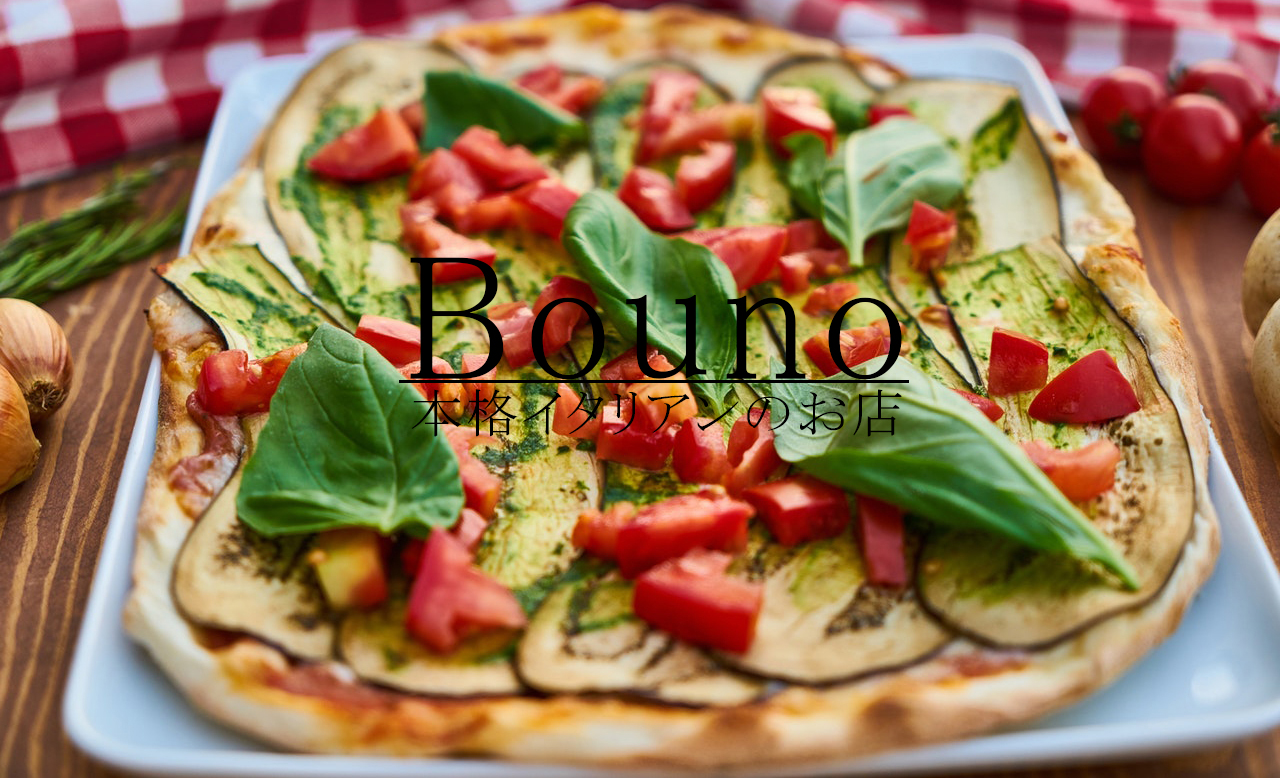
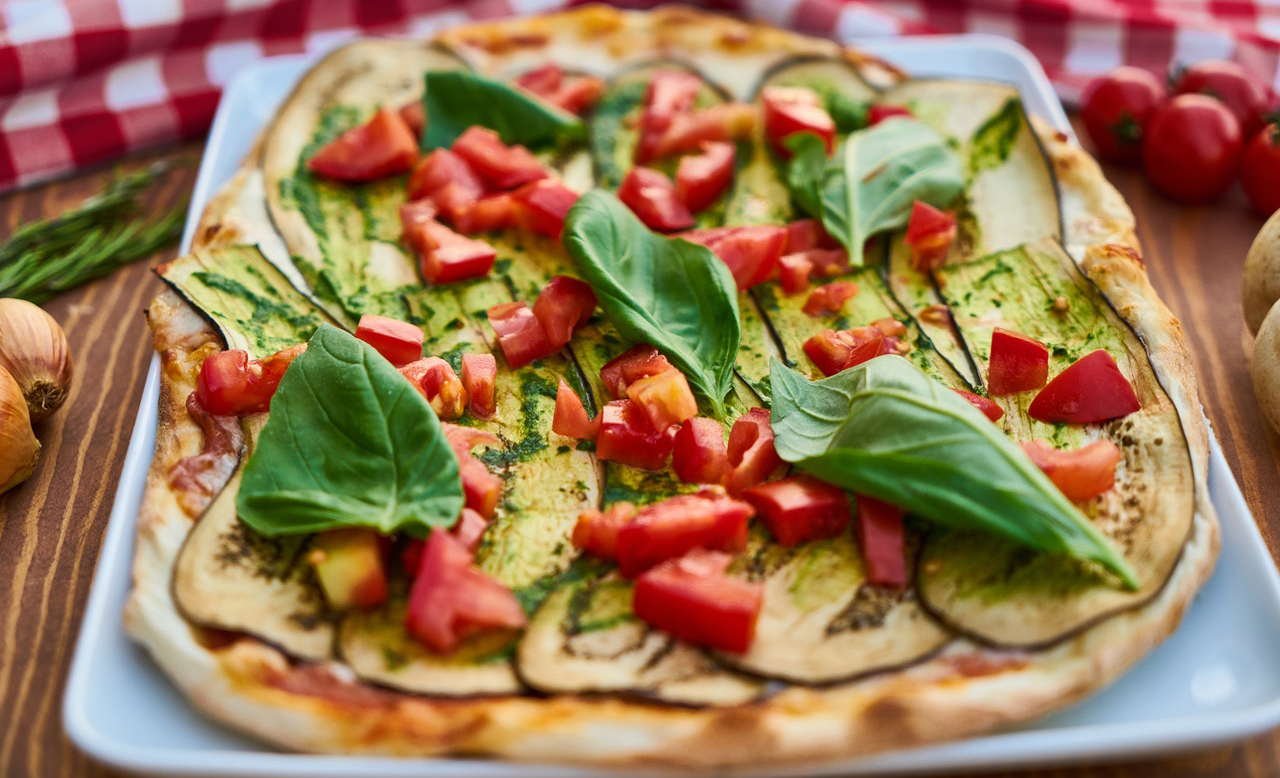
FBを受けて修正中。 imgにalt属性を付与。ヘッダーの画像を差し替えて店名をh1で追加。各見出しのタグを見直し。

Changed region(s): [[0.3125, 0.3085, 0.7188, 0.5553], [0.6562, 0.3702, 0.6875, 0.401]]

diff --git a/index.html b/index.html
@@ -17,18 +17,22 @@
             </ul>
         </nav>
         <div class="keyvisual">
-            <img src="img/keyvisiual.jpg" alt="keyvisual">
+            <img src="img/keyvisiual.jpg" alt=""><!--装飾用の画像はalt要らない？-->
+            <div class="header-restaurantname">
+                <h1>Bouno</h1>
+                <p>本格イタリアンのお店</p>
+            </div>
         </div>
     </header>
 
     <main>
         <article id="concept" class="concept blank">
-            <div class="heading"><h1>CONCEPT</h1></div>
-            <div class="jaheading"><h1>当店のコンセプト</h1></div>
+            <div class="heading"><h2>CONCEPT</h2></div>
+            <div class="jaheading"><h2>当店のコンセプト</h2></div>
             <article class="concept-flex">
-                <img src="img/photo-of-making-a-pizza-2180874-trimed.jpg">
+                <img src="img/photo-of-making-a-pizza-2180874-trimed.jpg" alt="当店のコンセプト">
                 <div class="concept-text">
-                    <h2>友達みんなイタリア人</h2>
+                    <h3>友達みんなイタリア人</h3>
                     <p>ぴざぱすたぴざぱすたぴざぱすたぴざぱすたぴざぱすたぴざぱすたぴざ
                         ぴざぱすたぴざぱすたぴざぱすたぴざぱすたぱすたぴざぱすたぴざぱすた
                         ぴざぱ</p>
@@ -41,42 +45,42 @@
             </article>
         </article>
         <article id="menu" class="food-menu blank">
-            <div class="heading"><h1>MENU</h1></div>
-            <div class="jaheading"><h1>メニュー</h1></div>
+            <div class="heading"><h2>MENU</h2></div>
+            <div class="jaheading"><h2>メニュー</h2></div>
             <section class="pizza-menu menu-flex">
-                <img src="img/pizza-only.jpg" alt="pizza-img">
+                <img src="img/pizza-only.jpg" alt="ピザのメニュー">
                 <section class="menu-text">
-                    <h2><i>PIZZA</i></h2>
+                    <h3>PIZZA</h3>
                     <p>本場イタリアの職人から受け継いだ生地作り。本場イタリアの職人から受け継いだ生地作り。本場イタリアの職人から受け継いだ生地作り。本場イタリアの職人から受け継いだ生地作り。本場イタリアの職人から受け継いだ生地作り。本場イタリアの職人から受け継いだ生地作り。</p>
                 </section>
             </section>
             <section class="pasta-menu menu-flex flex-reverse">
-                <img src="img/pasta-only.jpg" alt="pasta-img">
+                <img src="img/pasta-only.jpg" alt="パスタのメニュー">
                 <section class="menu-text">
-                    <h2><i>PASTA</i></h2>
+                    <h3>PASTA</h3>
                     <p>１年かけて完成させた究極の麺。１年かけて完成させた究極の麺。１年かけて完成させた究極の麺。１年かけて完成させた究極の麺。１年かけて完成させた究極の麺。１年かけて完成させた究極の麺。１年かけて完成させた究極の麺。１年かけて完成させた究極の麺。</p>
                 </section>
             </section>
             <section class="wine-menu menu-flex">
-                <img src="img/wine-only.jpg" alt="wine-img">
+                <img src="img/wine-only.jpg" alt="ワインのメニュー">
                 <section class="menu-text">
-                    <h2><i>WINE</i></h2>
+                    <h3>WINE</h3>
                     <p>徹底した温度管理。徹底した温度管理。徹底した温度管理。徹底した温度管理。徹底した温度管理。徹底した温度管理。徹底した温度管理。徹底した温度管理。徹底した温度管理。徹底した温度管理。徹底した温度管理。徹底した温度管理。徹底した温度管理。徹底した温度管理。</p>
                 </section>
             </section>
         </article>
         <article id="feature" class="feature blank">
-            <div class="heading"><h1>FEATURE</h1></div>
-            <div class="jaheading"><h1>食材へのこだわり</h1></div>
+            <div class="heading"><h2>FEATURE</h2></div>
+            <div class="jaheading"><h2>食材へのこだわり</h2></div>
             <article class="feature-flex">
-                <img src="img/feature-salt.jpg">
-                <img src="img/feature-oil.jpg">
-                <img src="img/feature-flour.jpg">
+                <img src="img/feature-salt.jpg" alt="塩のこだわり">
+                <img src="img/feature-oil.jpg" alt="オリーブオイルのこだわり">
+                <img src="img/feature-flour.jpg" alt="小麦粉のこだわり">
             </article>
         </article>
         <article id="access" class="access blank">
-            <div class="heading"><h1>ACCESS</h1></div>
-            <div class="jaheading"><h1>アクセス</h1></div>
+            <div class="heading"><h2>ACCESS</h2></div>
+            <div class="jaheading"><h2>アクセス</h2></div>
             <div class="access-flex">
                 <div class="access-text">
                     <p>〒108-0073<br>
@@ -98,9 +102,9 @@
     
     <footer>
         <div class="icon">
-            <a href="#"><img src="img/iconmonstr-instagram-13-240.png"></a>
-            <a href="#"><img src="img/iconmonstr-twitter-3-240.png"></a>
-            <a href="#"><img src="img/iconmonstr-facebook-3-240.png"></a>
+            <a href="#"><img src="img/iconmonstr-instagram-13-240.png" alt="インスタグラム"></a>
+            <a href="#"><img src="img/iconmonstr-twitter-3-240.png" alt="ツイッター"></a>
+            <a href="#"><img src="img/iconmonstr-facebook-3-240.png" alt="フェイスブック"></a>
         </div>
         <p>(C)2020 BreezeGroup.All Rights Reserved.</p>
     </footer>

diff --git a/CSS/style.css b/CSS/style.css
@@ -29,6 +29,7 @@ header {
     position: fixed;
     width: 100%;
     border-bottom: 1px solid rgba(85, 85, 85, 0.2);
+    z-index: 10;
 }
 
 .header-menu li {
@@ -48,8 +49,43 @@ header {
     border-left: 1px solid #555;
 }
 
+.keyvisual {
+    position: relative;
+}
+
 .keyvisual img {
     width: 100%;
+    z-index: 9;
+}
+
+.header-restaurantname {
+    position: absolute;
+    top: 29%;
+    left: 50%;
+    transform: translateX(-50%);
+}
+
+.header-restaurantname h1 {
+    font-size: 15rem;
+    padding-bottom: -30px;
+    position: relative;
+}
+
+.header-restaurantname h1::after {
+    content: "";
+    position: absolute;
+    display: inline-block;
+    top: 63px;
+    left: 0;
+    width: 100%;
+    height: 100px;
+    border-bottom: 8px solid;
+}
+
+.header-restaurantname p {
+    font-size: 4.4rem;
+    position: absolute;
+    top: 160px;
 }
 
 main {
@@ -83,7 +119,7 @@ main {
     margin-bottom: 270px;
 }
 
-.heading h1 {
+.heading h2 {
     top: 30px;
     left: 50%;
     font-size: 5rem;
@@ -91,7 +127,7 @@ main {
     color: #252525;
 }
 
-.jaheading h1{
+.jaheading h2{
     font-size: 2rem;
     text-align: center;
     margin-bottom: 50px;
@@ -112,7 +148,7 @@ article {/* ▼ヘッダーメニューと被らないように▼ */
 .concept-flex img{
     margin-left: 3%;
     margin-right: 5%;
-    width: 35%;
+    width: 45%;
     min-width: 400px;
 }
 
@@ -120,7 +156,7 @@ article {/* ▼ヘッダーメニューと被らないように▼ */
     margin-right: 3%;
 }
 
-.concept h2 {
+.concept h3 {
     font-size: 2.5rem;
     margin-bottom: 40px;
     text-align: center;
@@ -168,13 +204,10 @@ article {/* ▼ヘッダーメニューと被らないように▼ */
     flex-flow: row-reverse;
 }
 
-.food-menu h2 {
-    font-size: 6rem;
+.food-menu h3 {
+    font-size: 3.5rem;
     text-align: center;
-}
-
-.food-menu h2 i{/* 位置微調整 */
-    padding-right: 20px;
+    font-style:italic;
 }
 
 .food-menu p {
@@ -216,15 +249,15 @@ article {/* ▼ヘッダーメニューと被らないように▼ */
     margin-left: 5%;
 }
 
-.pizza-menu h2 {
+.pizza-menu h3 {
     color: #075200;
 }
 
-.pasta-menu h2 {
+.pasta-menu h3 {
     color: #d66100;
 }
 
-.wine-menu h2 {
+.wine-menu h3 {
     color: #001f80;
 }
 
@@ -244,7 +277,7 @@ article {/* ▼ヘッダーメニューと被らないように▼ */
 .pizza-menu>.menu-text:before{
     border-left: solid 1px #075200;
     border-top: solid 1px #075200;
-    top:80px;
+    top:40px;
     left: -20px;
 }
 .pizza-menu>.menu-text:after{
@@ -270,7 +303,7 @@ article {/* ▼ヘッダーメニューと被らないように▼ */
 .pasta-menu>.menu-text:before{
     border-left: solid 1px #d66100;
     border-top: solid 1px #d66100;
-    top:80px;
+    top:40px;
     left: -20px;
 }
 .pasta-menu>.menu-text:after{
@@ -296,7 +329,7 @@ article {/* ▼ヘッダーメニューと被らないように▼ */
 .wine-menu>.menu-text:before{
     border-left: solid 1px #001f80;
     border-top: solid 1px #001f80;
-    top:80px;
+    top:40px;
     left: -20px;
 }
 .wine-menu>.menu-text:after{
